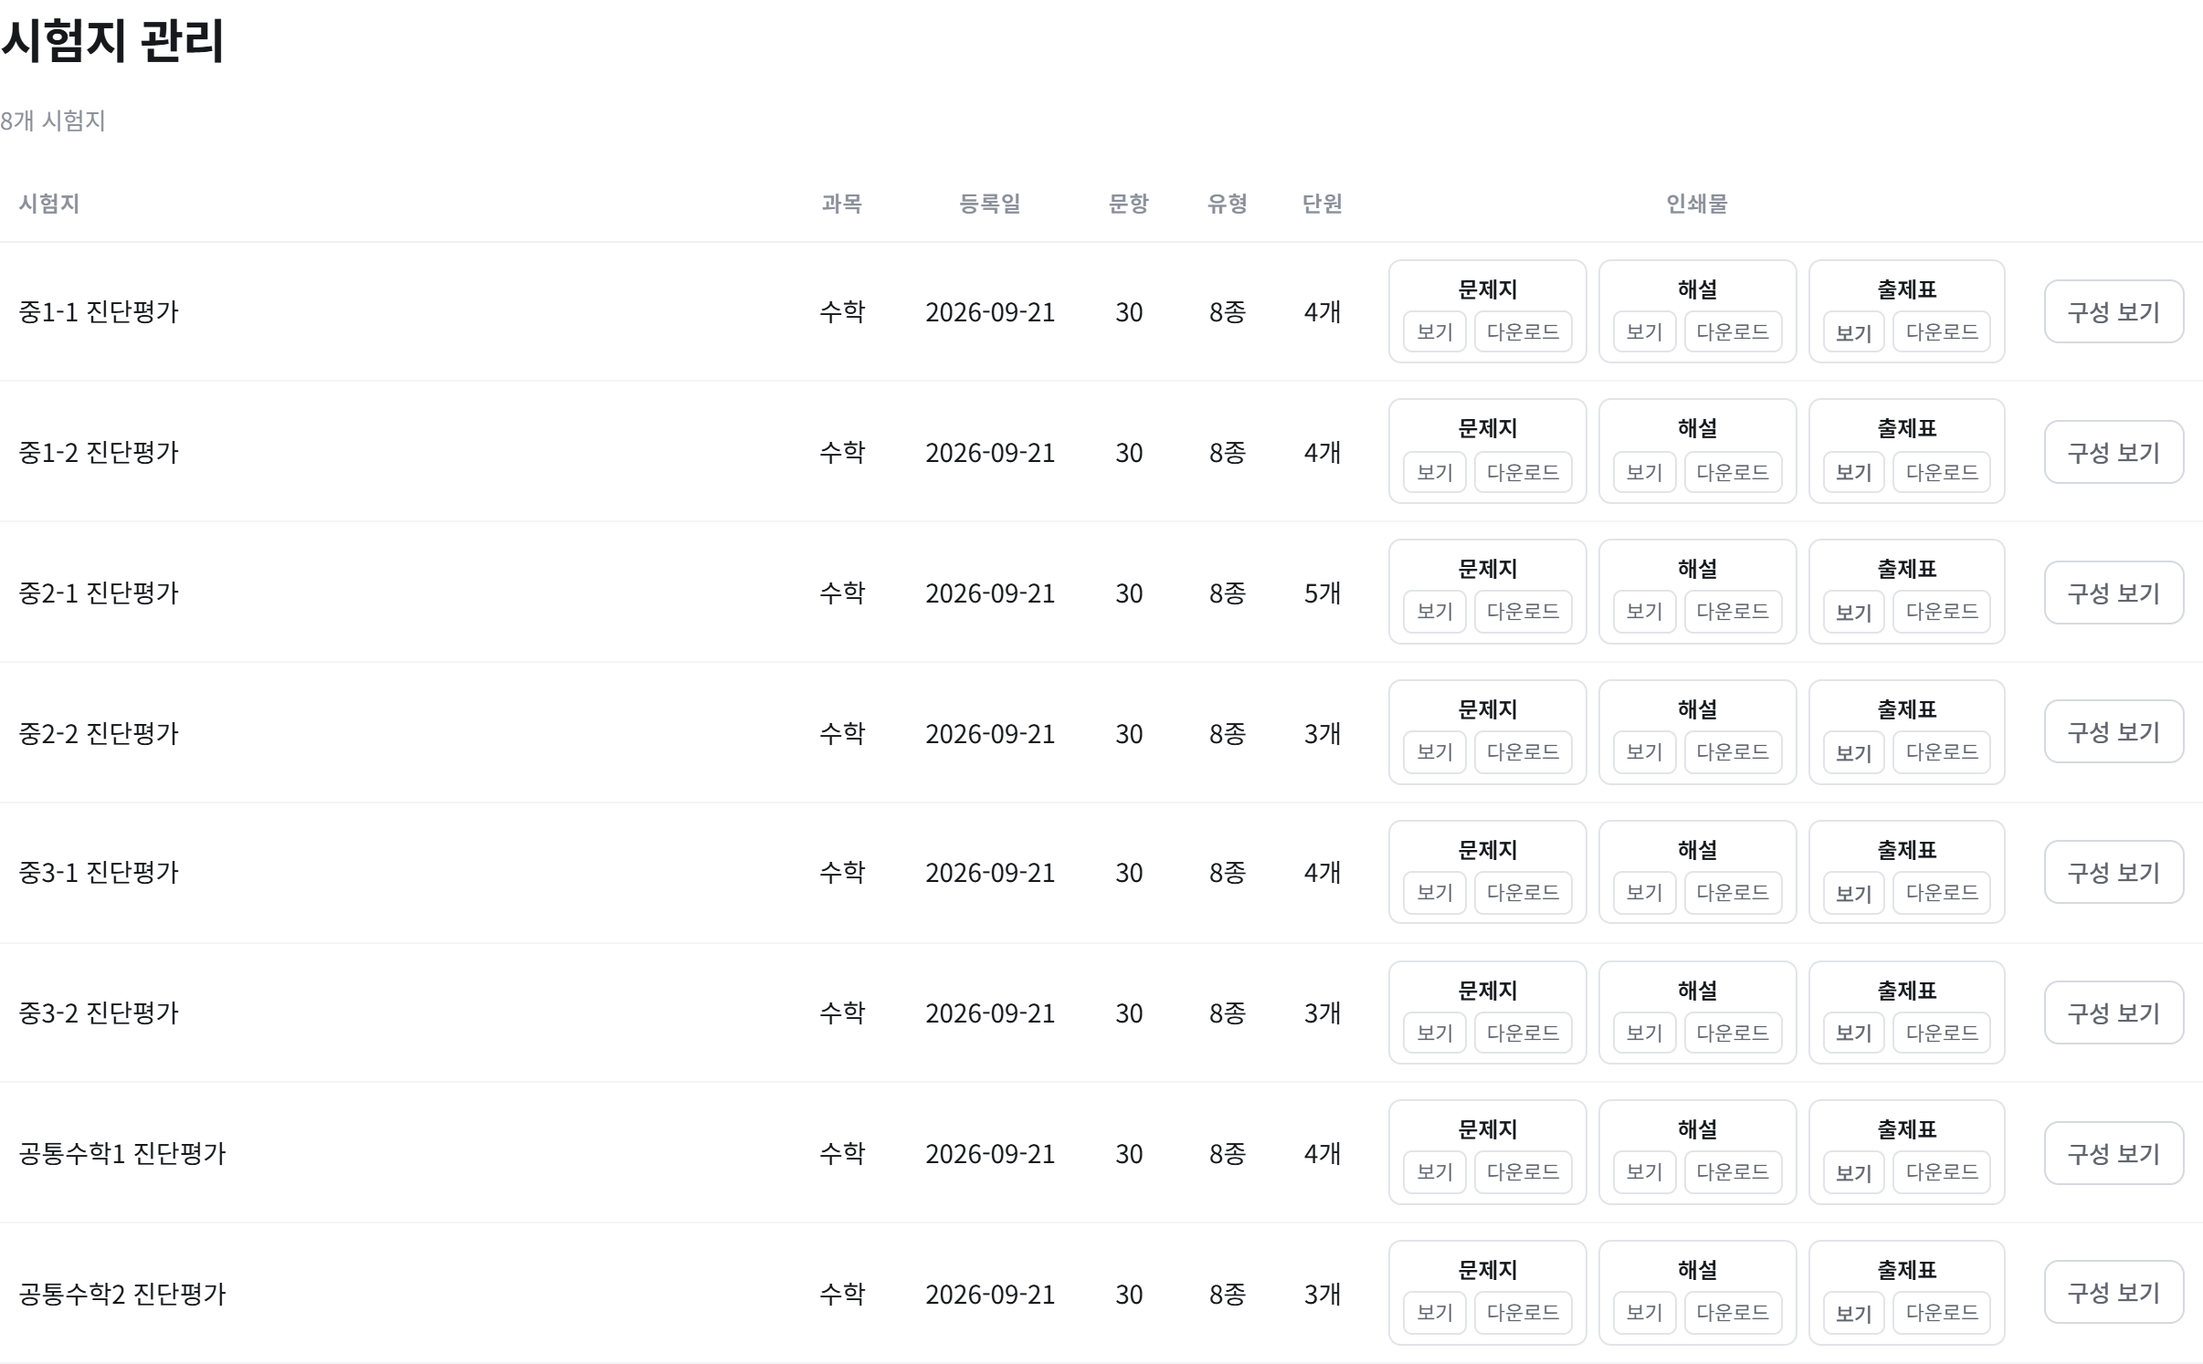
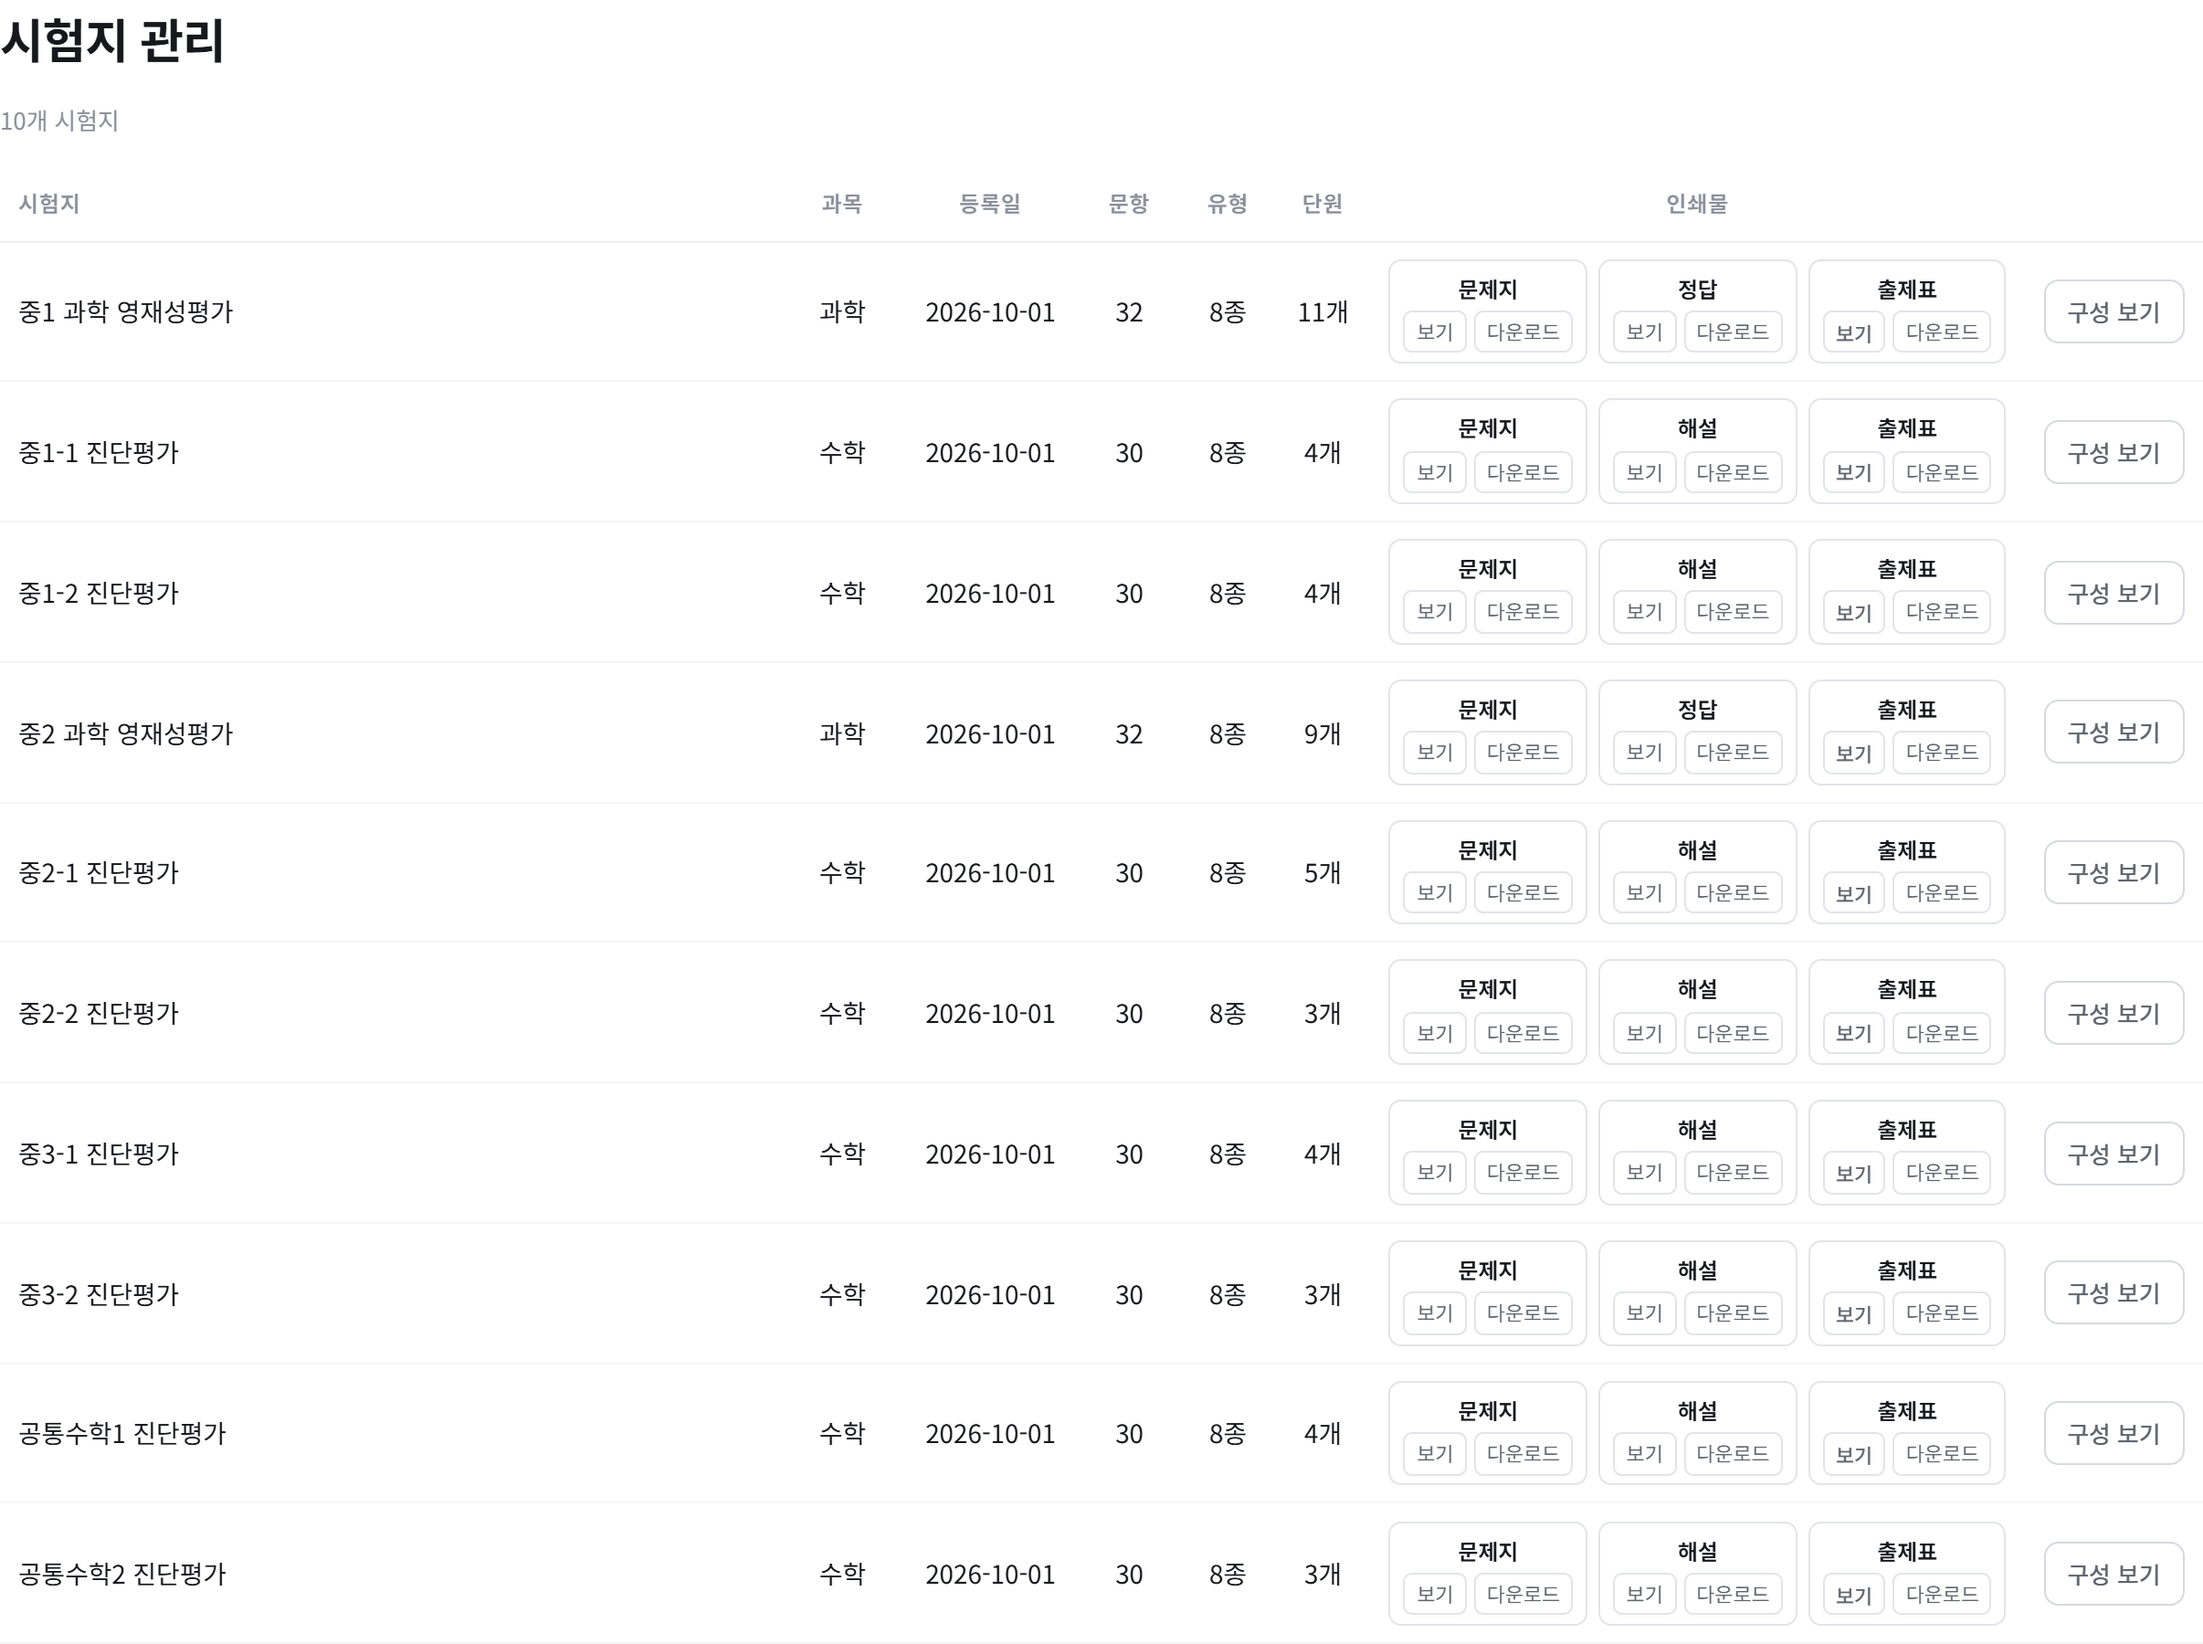
docs: 사용법 캡쳐 세 장을 다시 찍는다
- students.png : 목록이 접힌 모습, [상담내용 복사], 넓힌 메모 칸, 응시 결과의
  체크 칸이 들어갔다. 없앤 [응시] 칸도 빠졌다.
- exams.png : 여덟 줄에서 열 줄이 되었다. 과학 영재성평가 두 장과 그 줄의
  [정답] 칸이 들어갔다.
- home.png : 분석 유형이 8에서 15로 늘고 [10 진단 시험지] 칸이 새로 나온다.
  시험지가 열 개부터 나오는 숫자라 과학 두 장이 들어가며 처음 보인다.
  카드 01 의 「누적 정답률」도 화면대로 「점수」가 되었다.

캡쳐 자료는 지금까지대로 홍길동 · 예시중학교 · 중1, 중1-2 진단평가
2026-09-20 응시(71점 · 21/30)다. 사용법 글 한 줄은 줄 바꿈만 고쳤다.

diff --git a/app/src/components/ManualPage.tsx b/app/src/components/ManualPage.tsx
@@ -78,9 +78,8 @@ export default function ManualPage() {
           </li>
           <li>
             <b>유형별 성취</b>는 위에서 <b>체크한 시험을 합친</b> 결과입니다. 처음에는 다 체크돼 있습니다.
-            여기서는 레이더와 막대를 같이
-            보여줍니다. 레이더에는 영역 이름만 적습니다. 정답률과 득점은 오른쪽 막대에 있어 두 곳에 같은 값을
-            적지 않습니다. 막대는 이 화면에만 있고 리포트에는 레이더만 나갑니다.
+            여기서는 레이더와 막대를 같이 보여줍니다. 레이더에는 영역 이름만 적습니다. 정답률과 득점은 오른쪽
+            막대에 있어 두 곳에 같은 값을 적지 않습니다. 막대는 이 화면에만 있고 리포트에는 레이더만 나갑니다.
           </li>
           <li>
             <b>정답률은 배점으로 잽니다.</b> 그래서 배점 합이 19점인 5문항에서 4문항을 맞혀도, 5점짜리를
